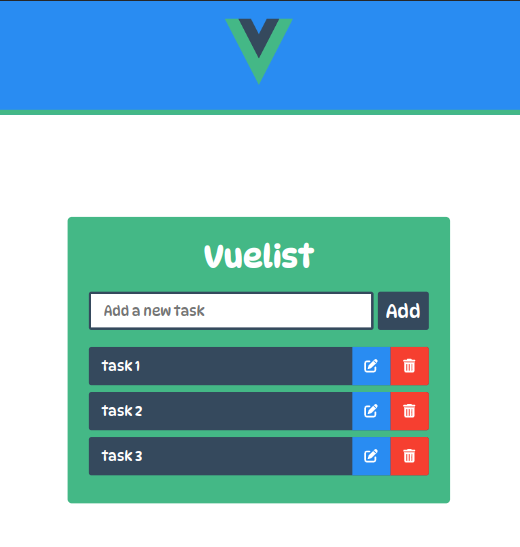
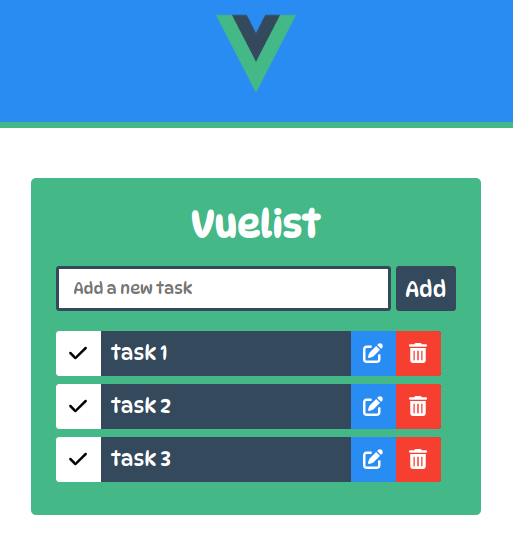
adding check task feature

diff --git a/src/components/Dashboard.vue b/src/components/Dashboard.vue
@@ -2,14 +2,20 @@
     <div class="tasks">
         <h1>Vuelist</h1>
         <div class="new">
-            <input v-if="!editableMode" v-model="task" type="text" name="new" id="new" placeholder="Add a new task">
-            <input v-else v-model="task" type="text" name="new" id="new" placeholder="Edit the task">
-            <button v-if="!editableMode" @click="addTask()" class="new-button">Add</button>
-            <button v-else @click="editTask(), editStatus()" class="new-button">Edit</button>
+            <input v-if="!editableMode" @keyup.enter="addTask()" v-model="task" type="text" name="new" class="input" :placeholder="placeholderMsg">
+            <input v-else v-model="task" @keyup.enter="editTask()" type="text" name="new" class="input edit-input" :placeholder="placeholderMsg">
+            <button v-if="!editableMode" @click="addTask()" id="add-button" class="new-button">Add</button>
+            <button v-else @click="editTask(), editStatus()" class="new-button edit-button">Edit</button>
         </div>
         <ul class="tasks-list">
-            <li v-for="task in tasks" :key="task.id">{{ task.task }}<span @click="editStatus(task.id)" class="edit"><font-awesome-icon icon="fas fa-edit" /></span>
-            <span @click="deleteTask(task.id)" class="delete"><font-awesome-icon icon="fa-trash-can" /></span></li>
+            <li v-for="task in tasks" :key="task.id">
+                <span v-if="task.completed == false" @click="editCompleted(task.id)" class="status"><font-awesome-icon icon="fa-solid fa-check"/></span>
+                <span v-else @click="editCompleted(task.id)" class="status"><font-awesome-icon icon="fas fa-undo"/></span>
+                <span v-if="task.completed == false">{{ task.task }}</span>
+                <span v-else class="task-tag">{{ task.task }}</span>
+                <span @click="editStatus(task.id)" class="edit"><font-awesome-icon icon="fas fa-edit"/></span>
+                <span @click="deleteTask(task.id)" class="delete"><font-awesome-icon icon="fa-trash-can"/></span>
+            </li>
         </ul>
     </div>
 </template>
@@ -22,20 +28,26 @@
                 tasks: null,
                 task: null,
                 id: null,
-                editableMode: false
+                editableMode: false,
+                completed: false,
+                placeholderMsg: "Add a new task"
             }
         },
         methods: {
             async addTask() {
-                const dataJson = JSON.stringify({task: this.task})
-                const req = await fetch("http://localhost:3000/tasks", {
-                    method: "POST",
-                    headers: {"Content-Type": "application/json"},
-                    body: dataJson
-                })
-                const res = await req.json()
-                this.getTasks()
-                this.task = null
+                if (this.task != null) {
+                    const dataJson = JSON.stringify({task: this.task, completed: false})
+                    const req = await fetch("http://localhost:3000/tasks", {
+                        method: "POST",
+                        headers: {"Content-Type": "application/json"},
+                        body: dataJson
+                    })
+                    const res = await req.json()
+                    this.getTasks()
+                    this.task = null
+                } else {
+                    this.placeholderMsg = "Invalid task"
+                }
             },
             async getTasks() {
                 const req = await fetch("http://localhost:3000/tasks")
@@ -56,17 +68,42 @@
             editStatus(id) {
                 this.editableMode = !this.editableMode
                 this.id = id
+                if (this.editableMode) {
+                    this.placeholderMsg = "Edit task"
+                }
             },
             async editTask() {
-                const newTask = this.task
-                const dataJson = JSON.stringify({task: newTask})
-                const req = await fetch(`http://localhost:3000/tasks/${this.id}`, {
+                if (this.task != null) {
+                    const newTask = this.task
+                    const dataJson = JSON.stringify({task: newTask})
+                    const req = await fetch(`http://localhost:3000/tasks/${this.id}`, {
+                        method: "PATCH",
+                        headers: {"Content-Type": "application/json"},
+                        body: dataJson
+                    })
+                    const res = await req.json()
+                    this.task = null
+                    this.getTasks()
+                    this.id = null
+                } else {
+                    this.placeholderMsg = "Invalid task"
+                }
+            },
+            async editCompleted(id) {
+                const get = await fetch(`http://localhost:3000/tasks/${id}`)
+                const data = await get.json()
+                let dataJson
+                if (data.completed == true) {
+                    dataJson = JSON.stringify({completed: false})
+                } else {
+                    dataJson = JSON.stringify({completed: true})
+                }
+                const req = await fetch(`http://localhost:3000/tasks/${id}`, {
                     method: "PATCH",
                     headers: {"Content-Type": "application/json"},
                     body: dataJson
                 })
                 const res = await req.json()
-                this.task = null
                 this.getTasks()
             }
         },
@@ -78,9 +115,10 @@
 
 <style scoped>
     .tasks {
-        margin: 120px auto;
+        margin: 50px auto;
         max-width: 450px;
         width: 100%;
+        height: fit-content;
         background: #41B883;
         color: white;
         border-radius: 5px;
@@ -99,17 +137,22 @@
         margin: 20px 0;
     }
 
-    .new input {
+    .input {
         outline: none;
         width: 85%;
         height: 100%;
         border: 3px solid #35495E;
         font-size: 16px;
         border-radius: 3px;
-        padding-left: 15px;
+        padding-left: 15px; 
     }
 
-    .new button {
+    .edit-input {
+        border: 3px solid #278cf7;
+        color: black;
+    }
+
+    .new-button {
         width: 60px;
         height: 100%;
         border: none;
@@ -122,6 +165,15 @@
         margin-left: 5px;
     }
 
+    .edit-button {
+        background: #278cf7;
+    }
+
+    .tasks-list {
+        max-height: 580px;
+        overflow: auto;
+    }
+
 
     .tasks-list li {
         list-style: none;
@@ -129,9 +181,14 @@
         line-height: 45px;
         position: relative;
         background: #35495E;
+        margin-right: 15px;
         margin-bottom: 8px;
-        padding: 0 15px;
+        padding: 0 55px;
+        font-size: 20px;
         border-radius: 3px;
+        -webkit-user-select: none; 
+        -ms-user-select: none; 
+        user-select: none;
     }
 
     .edit {
@@ -143,6 +200,21 @@
         cursor: pointer;
     }
 
+    .task-tag {
+        text-decoration: line-through
+    }
+
+    .status {
+        position: absolute;
+        left: 0px;
+        background: white;
+        text-align: center;
+        border-radius: 3px 0 0 3px;
+        width: 45px;
+        cursor: pointer;
+        color: black;
+    }
+
     .delete {
         position: absolute;
         right: 0px;
@@ -151,6 +223,24 @@
         border-radius: 0 3px 3px 0;
         width: 45px;
         cursor: pointer;
+    }
+
+
+    ::-webkit-scrollbar {
+        width: 10px;
+    }
+
+    ::-webkit-scrollbar-track {
+        background: transparent; 
+    }
+
+    ::-webkit-scrollbar-thumb {
+        background: #35495E;
+        border-radius: 5px;
+    }
+
+    ::-webkit-scrollbar-thumb:hover {
+        background: #35495E; 
     }
 
 </style>

diff --git a/src/main.js b/src/main.js
@@ -2,10 +2,10 @@ import Vue from 'vue'
 import App from './App.vue'
 import router from './router'
 import { library } from '@fortawesome/fontawesome-svg-core'
-import { faEdit, faTrashCan } from '@fortawesome/free-solid-svg-icons'
+import { faEdit, faTrashCan, faCheck, faUndo } from '@fortawesome/free-solid-svg-icons'
 import { FontAwesomeIcon } from '@fortawesome/vue-fontawesome'
 
-library.add(faEdit, faTrashCan)
+library.add(faEdit, faTrashCan, faCheck, faUndo)
 Vue.component('font-awesome-icon', FontAwesomeIcon)
 Vue.config.productionTip = false
 

diff --git a/public/index.html b/public/index.html
@@ -8,9 +8,6 @@
     <title>Vuelist</title>
   </head>
   <body>
-    <noscript>
-      <strong>We're sorry but <%= htmlWebpackPlugin.options.title %> doesn't work properly without JavaScript enabled. Please enable it to continue.</strong>
-    </noscript>
     <div id="app"></div>
   </body>
 </html>
